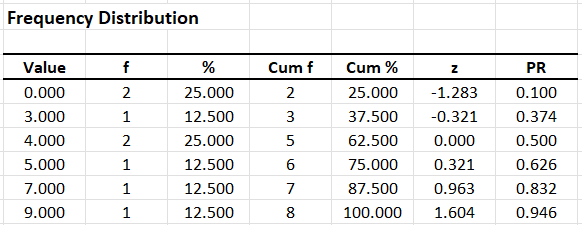
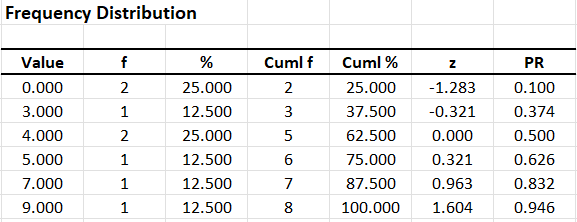
Updated frequencies annotations

Changed region(s): [[0.0, 0.0, 1.0, 1.0]]

diff --git a/EASI/annotated-output/descriptives.md b/EASI/annotated-output/descriptives.md
@@ -35,13 +35,13 @@ The frequency distribution can be used to determine the descriptive statistics.
 
 Frequencies for the Data
 
-     Freq    Perc CumFreq CumPerc
-0   2.000   0.250   2.000   0.250
-3   1.000   0.125   3.000   0.375
-4   2.000   0.250   5.000   0.625
-5   1.000   0.125   6.000   0.750
-7   1.000   0.125   7.000   0.875
-9   1.000   0.125   8.000   1.000
+     Freq    Perc CumlFreq CumlPerc
+0   2.000   0.250    2.000    0.250
+3   1.000   0.125    3.000    0.375
+4   2.000   0.250    5.000    0.625
+5   1.000   0.125    6.000    0.750
+7   1.000   0.125    7.000    0.875
+9   1.000   0.125    8.000    1.000
 ```
 
 The table of descriptive statistics shows the key elements to be calculated.

diff --git a/EASI/annotated-output/frequencies.md b/EASI/annotated-output/frequencies.md
@@ -35,13 +35,13 @@ The frequency distribution can be used to determine the percentiles and other st
 
 Frequencies for the Data
 
-     Freq    Perc CumFreq CumPerc
-0   2.000   0.250   2.000   0.250
-3   1.000   0.125   3.000   0.375
-4   2.000   0.250   5.000   0.625
-5   1.000   0.125   6.000   0.750
-7   1.000   0.125   7.000   0.875
-9   1.000   0.125   8.000   1.000
+     Freq    Perc CumlFreq CumlPerc
+0   2.000   0.250    2.000    0.250
+3   1.000   0.125    3.000    0.375
+4   2.000   0.250    5.000    0.625
+5   1.000   0.125    6.000    0.750
+7   1.000   0.125    7.000    0.875
+9   1.000   0.125    8.000    1.000
 ```
 
 The table of descriptive statistics shows the key elements to be calculated.